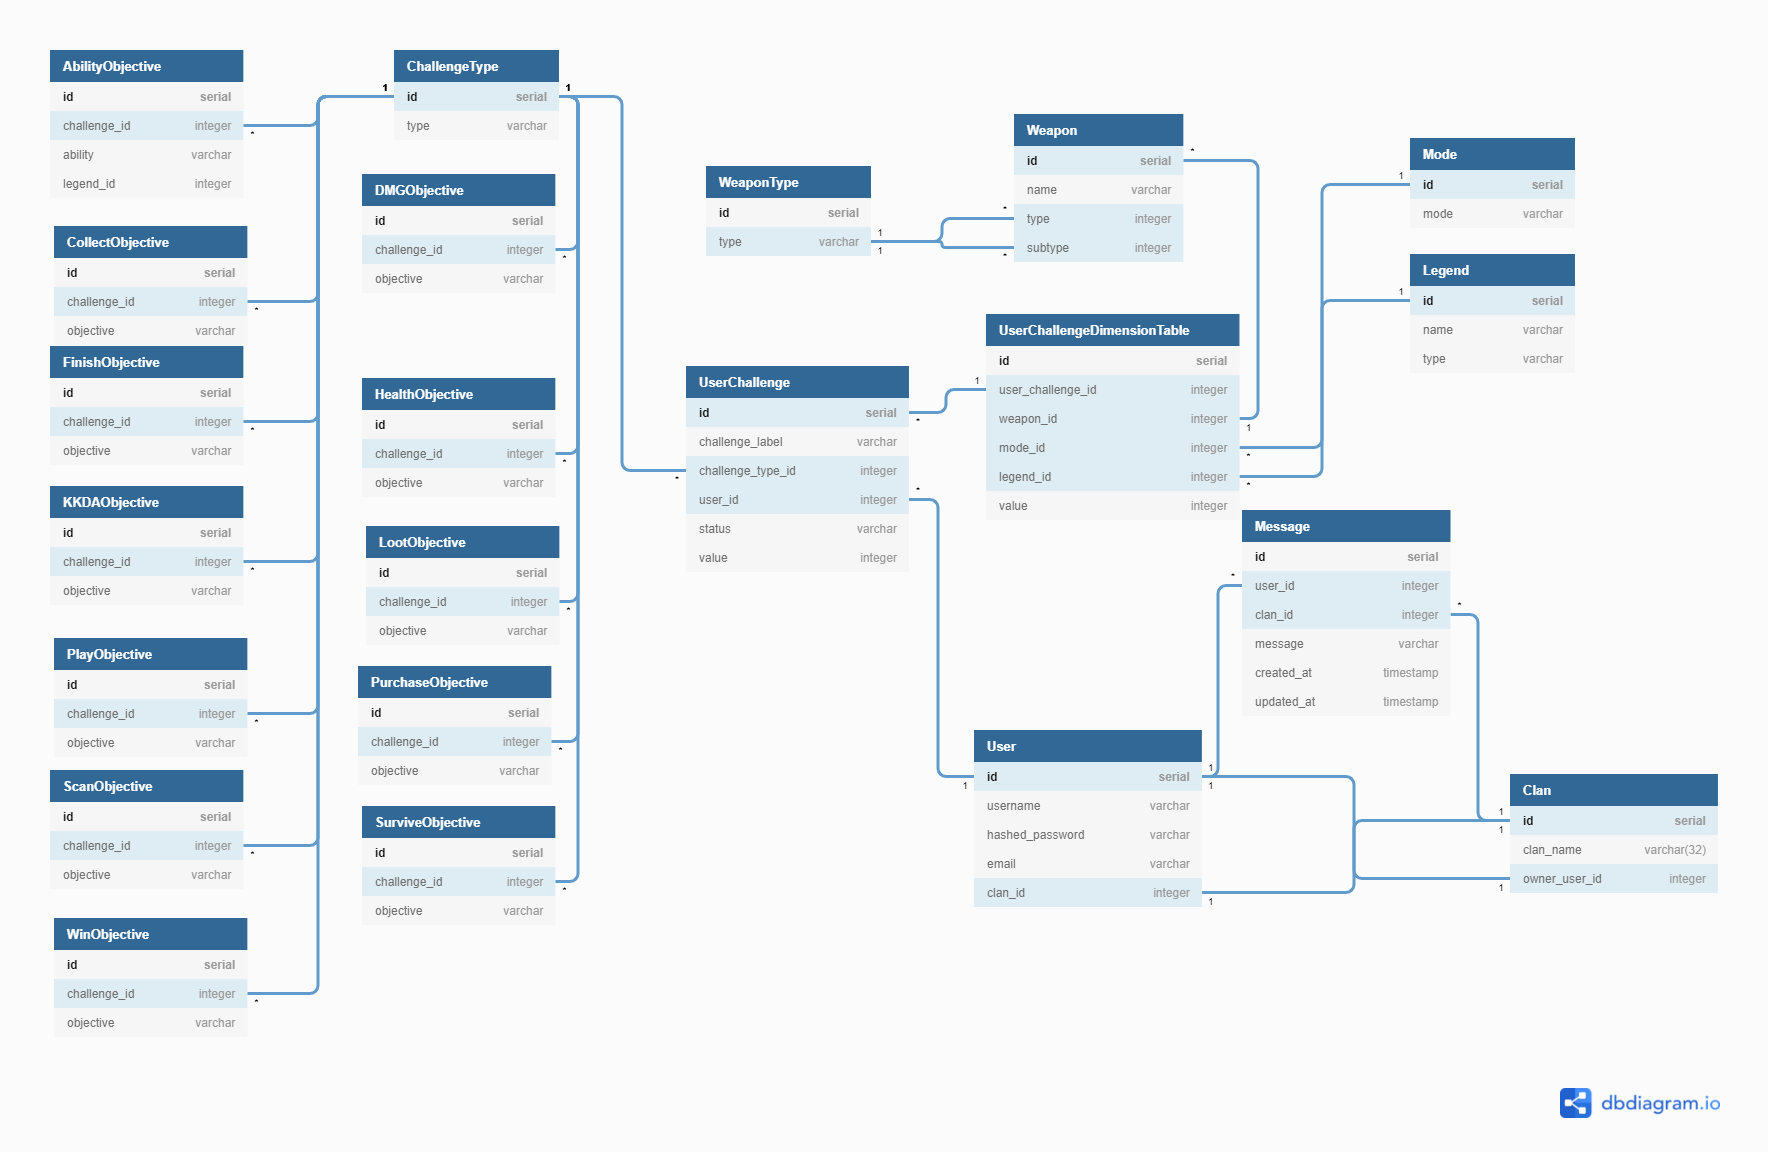
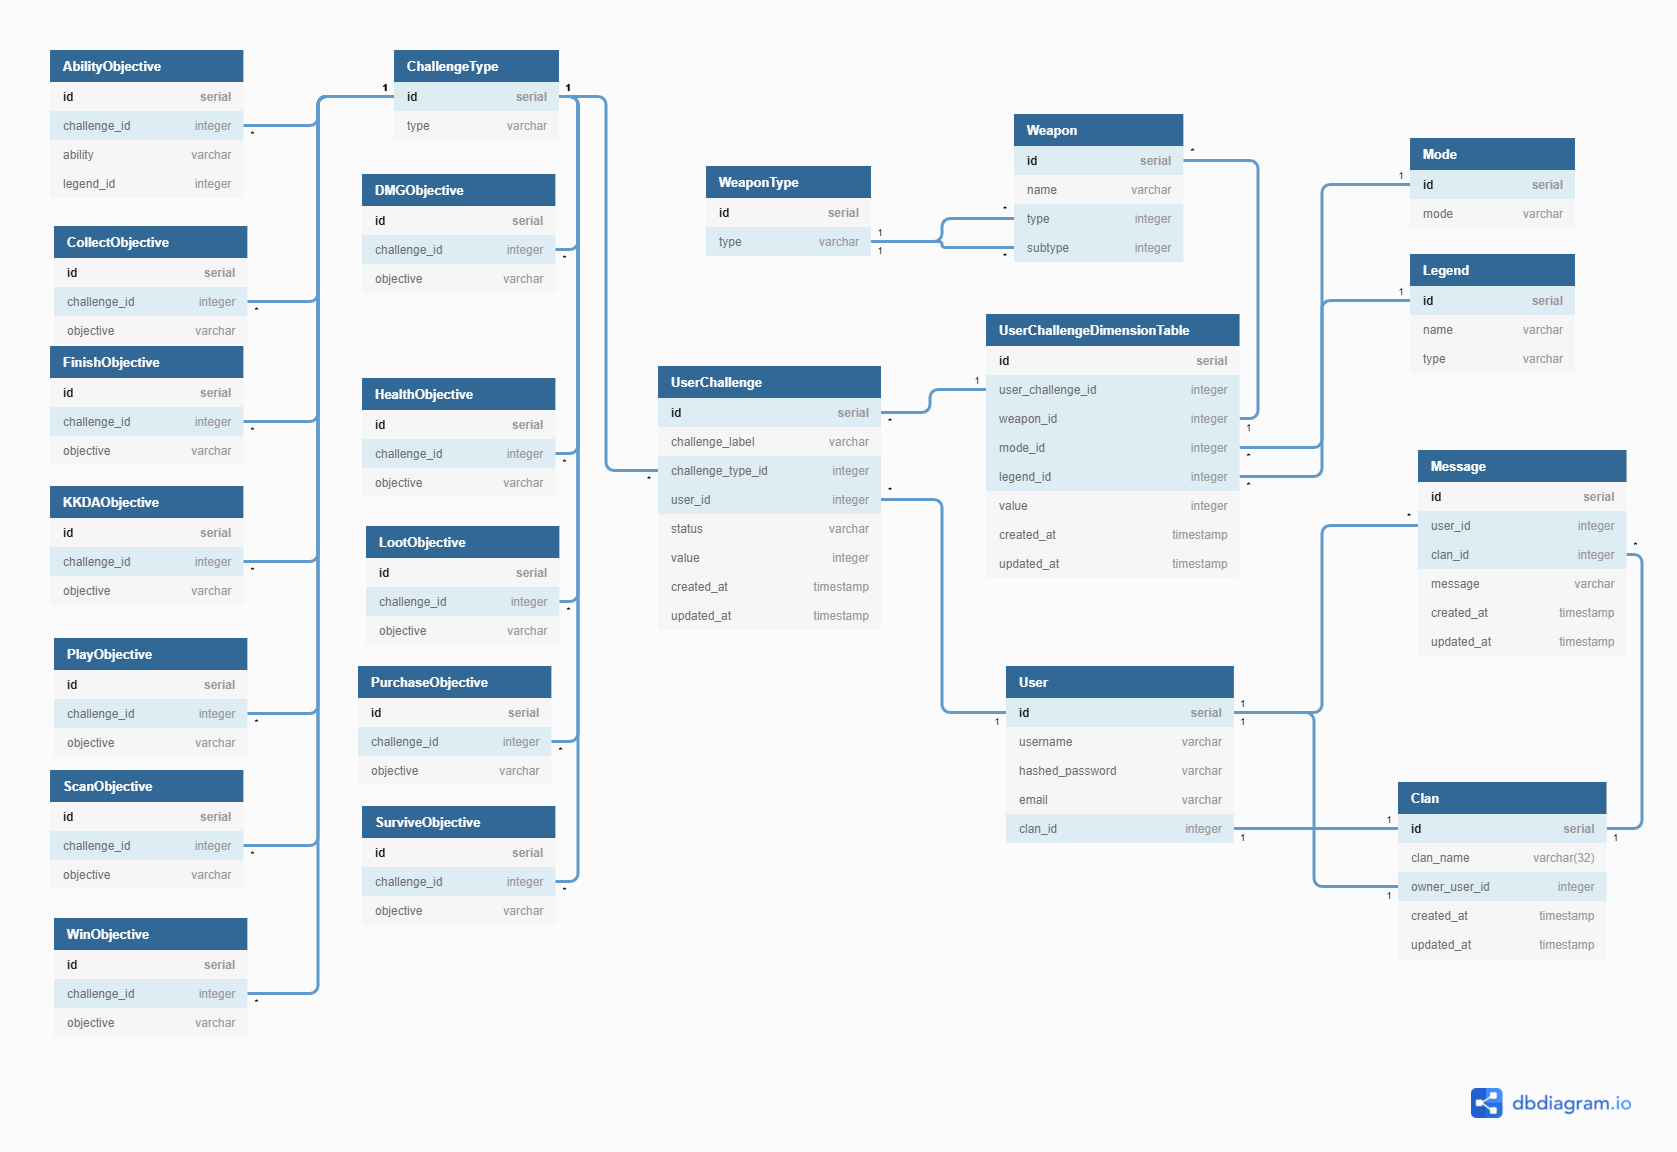
new dbschema png

diff --git a/dbschema.md b/dbschema.md
@@ -1,0 +1,22 @@
+![Optimize-Apex-DB](https://https://raw.githubusercontent.com/cat-friend/optimize-apex/main/documentation/dbschema.png)
+
+## users
+|column name| data type| detail |
+| ------------- | ------------- | ------------- |
+| id | integer | not null, primary key |
+| username | string(32) | not null, unique |
+| email | string(64) | not null, unique |
+| hashed_password | binary | not null |
+| bio | text(512) | |
+| clan_id| integer| |
+| created_at | timestamp | not null |
+| updated_at | timestamp | not null |
+
+## clans
+|column name| data type| detail |
+| ------------- | ------------- | ------------- |
+| id | integer | not null, primary key |
+| clan_name| string(32)| not null|
+| owner_user_id| integer| not null|
+| created_at | timestamp | not null |
+| updated_at | timestamp | not null |
